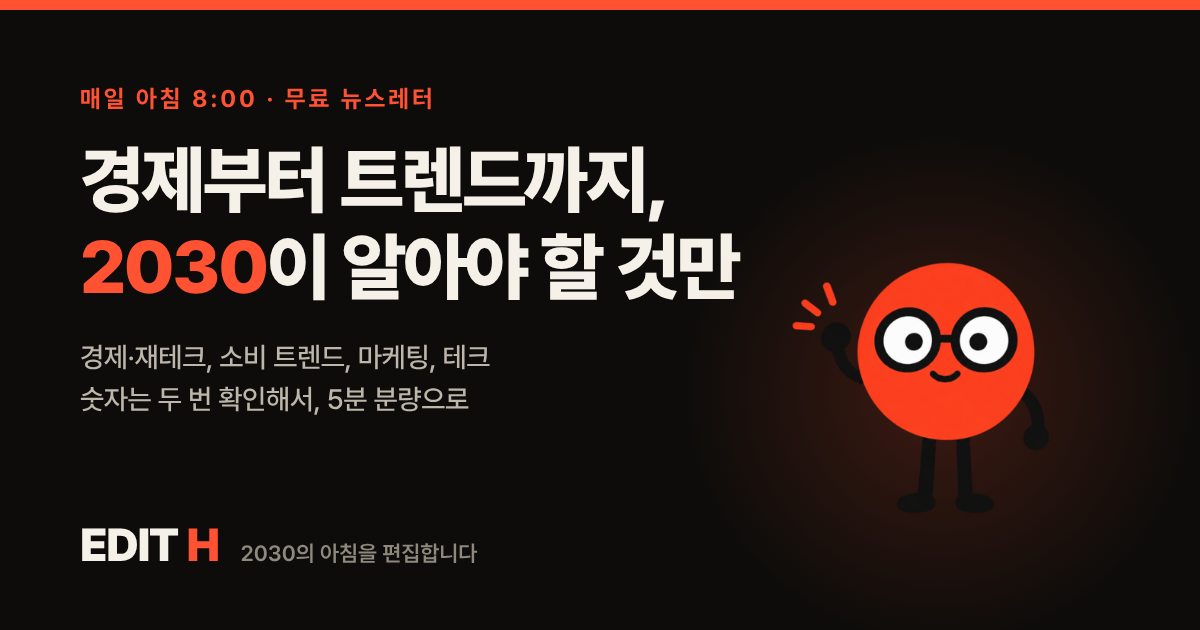
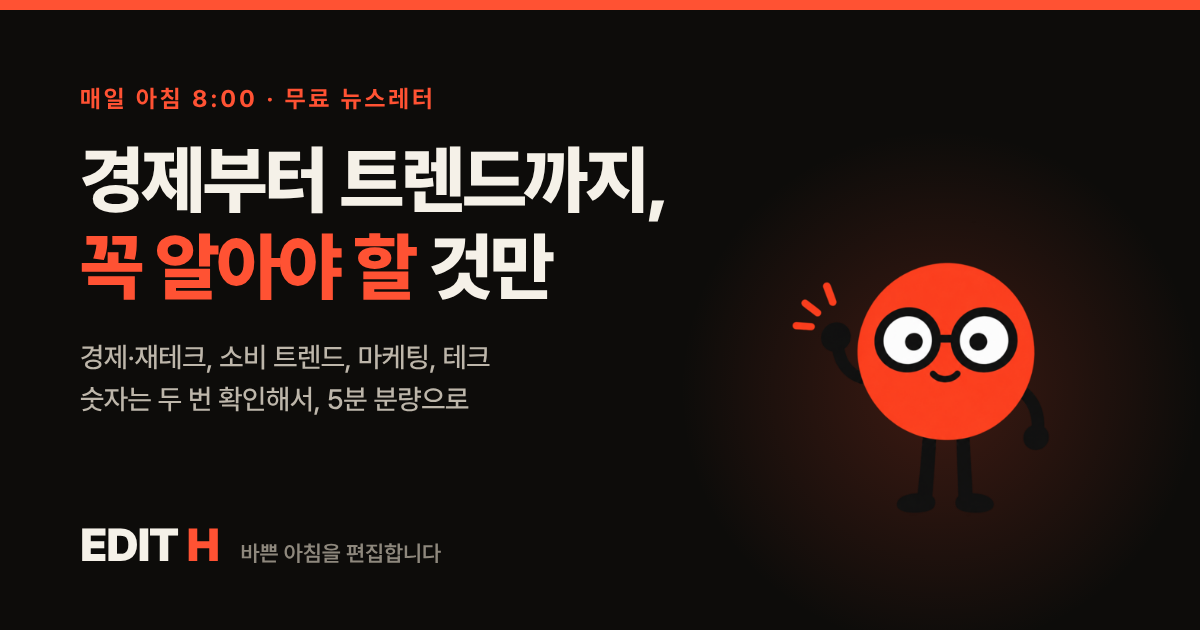
대표 한 줄 '바쁜 아침을 편집합니다'·'꼭 알아야 할'(11/23 호~)

Changed region(s): [[0.0617, 0.3619, 0.6167, 0.4825], [0.185, 0.8444, 0.4008, 0.9048]]

diff --git a/index.html b/index.html
@@ -3,11 +3,11 @@
 <head>
 <meta charset="UTF-8">
 <meta name="viewport" content="width=device-width, initial-scale=1.0">
-<title>EDIT H — 경제부터 트렌드까지, 2030이 알아야 할 것만</title>
-<meta name="description" content="경제부터 트렌드까지, 2030이 알아야 할 것만. 경제·재테크, 소비 트렌드, 마케팅·브랜드, 테크 소식을 골라 매일 아침 8시에 보내는 무료 뉴스레터 EDIT H. 지난 호를 모두 볼 수 있어요.">
+<title>EDIT H — 경제부터 트렌드까지, 꼭 알아야 할 것만</title>
+<meta name="description" content="경제부터 트렌드까지, 꼭 알아야 할 것만. 경제·재테크, 소비 트렌드, 마케팅·브랜드, 테크 소식을 골라 매일 아침 8시에 보내는 무료 뉴스레터 EDIT H. 지난 호를 모두 볼 수 있어요.">
 <meta name="theme-color" content="#FFFFFF">
-<meta property="og:title" content="EDIT H — 경제부터 트렌드까지, 2030이 알아야 할 것만">
-<meta property="og:description" content="2030의 아침을 편집합니다. 매일 아침 8시, 무료·광고 없음.">
+<meta property="og:title" content="EDIT H — 경제부터 트렌드까지, 꼭 알아야 할 것만">
+<meta property="og:description" content="바쁜 아침을 편집합니다. 매일 아침 8시, 무료·광고 없음.">
 <meta property="og:image" content="https://vetnam555-del.github.io/edit-h-archive/og_image.png">
 <meta property="og:image:width" content="1200">
 <meta property="og:image:height" content="630">
@@ -23,7 +23,7 @@
 <link rel="preconnect" href="https://cdn.jsdelivr.net" crossorigin>
 <link rel="stylesheet" href="https://cdn.jsdelivr.net/gh/orioncactus/pretendard@v1.3.9/dist/web/variable/pretendardvariable-dynamic-subset.min.css">
 <!-- 2026-11-01 운영자 "첫 화면에서 바로 구독 신청해서 구독 수를 높이게 구조 변경 + 디자인 전체 개선" → 같은 날 "좀 촌스러운 것 같은데"
-     → "내 돈·일·소비 같은 문구도 촌스럽다"(문구 체계: automation/reviews/2026-11-01-copy.md — 대표 한 줄 '2030의 아침을 편집합니다' — 11/01 운영자 '직장인보다 2030 마케팅·트렌드·경제 폭넓게').
+     → "내 돈·일·소비 같은 문구도 촌스럽다"(문구 체계: automation/reviews/2026-11-01-copy.md — 대표 한 줄 '2030의 아침을 편집합니다'(11/23~ '바쁜 아침을 편집합니다', '2030이' → '꼭') — 11/01 운영자 '직장인보다 2030 마케팅·트렌드·경제 폭넓게').
      2판: 레퍼런스(Morning Brew·1440·캐릿)처럼 단색 바탕·큰 글자·입력칸 하나로 줄이고, 장식(빛번짐·이모지·말풍선)을 빼고,
      실제로 보낸 최근 호를 휴대폰 모양 안에 그대로 보여 준다(무엇을 받는지 첫 화면에서). 색·칩은 뉴스레터 본문과 같은 말투.
      구독 칸은 subscribe.html 과 같은 Formspree 주소·칸. 지난 호 목록·최근 호 카드·호 수는 빌드가 manifest 로 다시 쓴다
@@ -222,7 +222,7 @@
   <div class="wrap">
     <div class="hero-copy">
       <p class="kicker"><span class="dot" aria-hidden="true"></span>매일 아침 8:00 · 무료 뉴스레터</p>
-      <h1 id="hero-title">경제부터 트렌드까지,<br><span class="hl">2030</span>이 알아야 할 것만</h1>
+      <h1 id="hero-title">경제부터 트렌드까지,<br><span class="hl">꼭 알아야 할</span> 것만</h1>
       <p class="lead">경제와 재테크, 소비 트렌드, 마케팅과 브랜드, 테크까지. 쏟아지는 소식 중 오늘 알아야 할 것만 골라 '그래서 나는?'까지 5분 분량으로 정리해요. 숫자는 서로 다른 두 곳에서 확인합니다.</p>
 
       <form class="sub-form" id="subscribeForm" action="https://formspree.io/f/xwvznwyw" method="POST">

diff --git a/subscribe.html b/subscribe.html
@@ -3,12 +3,12 @@
 <head>
 <meta charset="UTF-8">
 <meta name="viewport" content="width=device-width, initial-scale=1.0">
-<title>EDIT H 구독하기 — 경제부터 트렌드까지, 2030이 알아야 할 것만</title>
-<meta name="description" content="경제부터 트렌드까지, 2030이 알아야 할 것만. 매일 아침 8시에 보내는 무료 뉴스레터 EDIT H 구독 신청.">
+<title>EDIT H 구독하기 — 경제부터 트렌드까지, 꼭 알아야 할 것만</title>
+<meta name="description" content="경제부터 트렌드까지, 꼭 알아야 할 것만. 매일 아침 8시에 보내는 무료 뉴스레터 EDIT H 구독 신청.">
 <link rel="canonical" href="https://vetnam555-del.github.io/edit-h-archive/subscribe.html">
 <meta name="theme-color" content="#FFFFFF">
-<meta property="og:title" content="EDIT H — 경제부터 트렌드까지, 2030이 알아야 할 것만">
-<meta property="og:description" content="2030의 아침을 편집합니다. 매일 아침 8시, 무료·광고 없음.">
+<meta property="og:title" content="EDIT H — 경제부터 트렌드까지, 꼭 알아야 할 것만">
+<meta property="og:description" content="바쁜 아침을 편집합니다. 매일 아침 8시, 무료·광고 없음.">
 <meta property="og:type" content="website">
 <meta property="og:image" content="https://vetnam555-del.github.io/edit-h-archive/og_image.png">
 <meta property="og:image:width" content="1200">
@@ -217,7 +217,7 @@
   <div class="wrap">
     <div class="hero-copy">
       <p class="kicker"><span class="dot" aria-hidden="true"></span>매일 아침 8:00 · 무료 뉴스레터</p>
-      <h1 id="hero-title">경제부터 트렌드까지,<br><span class="hl">2030</span>이 알아야 할 것만</h1>
+      <h1 id="hero-title">경제부터 트렌드까지,<br><span class="hl">꼭 알아야 할</span> 것만</h1>
       <p class="lead">경제와 재테크, 소비 트렌드, 마케팅과 브랜드, 테크까지. 쏟아지는 소식 중 오늘 알아야 할 것만 골라 '그래서 나는?'까지 5분 분량으로 정리해요. 숫자는 서로 다른 두 곳에서 확인합니다.</p>
 
       <form id="subscribeForm" action="https://formspree.io/f/xwvznwyw" method="POST" class="sub-form">

diff --git a/share.html b/share.html
@@ -62,7 +62,7 @@
   <textarea class="url" id="text" rows="5" readonly></textarea>
 
   <a class="btn tertiary" id="mail" href="#">메일로 보내기</a>
-  <p class="note">매일 아침 8시, 경제부터 트렌드까지 2030이 알아야 할 소식을 무료로 보내 드려요. <a href="subscribe.html?ref=share">구독하기</a></p>
+  <p class="note">매일 아침 8시, 경제부터 트렌드까지 꼭 알아야 할 소식을 무료로 보내 드려요. <a href="subscribe.html?ref=share">구독하기</a></p>
 </main>
 <script>
 (function () {
@@ -71,11 +71,11 @@
   var valid = /^\d{4}-\d{2}-\d{2}$/.test(d);
   var issueUrl = valid ? new URL(d + '.html', base).href : base.href;
   var subUrl = new URL('subscribe.html?ref=share', base).href;
-  var title = 'EDIT H — 2030의 아침을 편집합니다';
+  var title = 'EDIT H — 바쁜 아침을 편집합니다';
   var textEl = document.getElementById('text'), msg = document.getElementById('msg');
 
   function body(t) {
-    return (t ? '[EDIT H] ' + t + '\n' : '') + issueUrl + '\n\n매일 아침 8시, 2030이 알아야 할 소식을 골라 보내 줘요. 무료 구독: ' + subUrl;
+    return (t ? '[EDIT H] ' + t + '\n' : '') + issueUrl + '\n\n매일 아침 8시, 꼭 알아야 할 소식을 골라 보내 줘요. 무료 구독: ' + subUrl;
   }
   function render(t) {
     textEl.value = body(t);

diff --git a/automation/selftest.py b/automation/selftest.py
@@ -1894,6 +1894,9 @@ def t_card_ratio():
         page_v2, _ = cards.build({**d, "date": cards.FOLLOW_LINE_V2_FROM}, "")
         expect("2030이 알아야 할 소식" in page_v2 and "돈·일·소비 뉴스" not in page_v2,
                "E11 표본 다음 날부터 팔로우 카드 소개 줄이 새 문구(2030 폭넓게)가 아니다")
+        page_v3, _ = cards.build({**d, "date": cards.FOLLOW_LINE_V3_FROM}, "")
+        expect("꼭 알아야 할 소식" in page_v3 and "2030이 알아야" not in page_v3,
+               "11/23 호부터 팔로우 카드 소개 줄이 '꼭 알아야 할'(11/22 운영자 '2030이 아니더라도 포괄적으로')이 아니다")
         expect(cards.follow_on({"date": "2026-10-31"}) and not cards.follow_on({"date": "2026-10-31", "poll": {"q": 1}}),
                "팔로우 카드 날짜·투표 날 예외가 틀린다")
         html_page = site.gallery_page(d_new, "https://x", ["01.png"], "caption")
@@ -2754,15 +2757,24 @@ def t_brand_v2():
     new = copy_mod.deepcopy(d)
     new["date"] = newsletter.BRAND_V2_FROM
     a, b = newsletter.render(old, site, 10), newsletter.render(new, site, 10)
-    expect("트렌드 한 입" in a and newsletter.BRAND_LINE not in a, "11/01 전 호의 바닥 문구가 바뀌었다(지난 호는 기록)")
-    expect(newsletter.BRAND_LINE in b and "트렌드 한 입" not in b, "11/01 호 메일에 옛 문구('트렌드 한 입')가 남았다")
+    expect("트렌드 한 입" in a and newsletter.BRAND_LINE_V2 not in a, "11/01 전 호의 바닥 문구가 바뀌었다(지난 호는 기록)")
+    expect(newsletter.BRAND_LINE_V2 in b and "트렌드 한 입" not in b and newsletter.BRAND_LINE not in b,
+           "11/01~11/22 호 메일 바닥이 '2030의 아침을 편집합니다'가 아니다(지난 호는 기록)")
+    # 11/23 호부터 '바쁜 아침을 편집합니다'·'꼭 알아야 할'(2026-11-22 운영자 '꼭 2030이 아니더라도 다 포괄적으로' → '바쁜 아침으로')
+    v3 = copy_mod.deepcopy(d)
+    v3["date"] = newsletter.BRAND_V3_FROM
+    c3 = newsletter.render(v3, site, 10)
+    expect(newsletter.BRAND_LINE in c3 and newsletter.BRAND_LINE_V2 not in c3 and "2030이 알아야" not in c3,
+           f"{newsletter.BRAND_V3_FROM} 호 메일에 '{newsletter.BRAND_LINE}'가 없거나 '2030' 문구가 남았다")
     expect("border-radius:0 0" in b and "border-radius:0 0" not in a, "11/01 호 프로필·노트 마크가 마스코트 얼굴(미소)이 아니다")
     for name in ("index.html", "subscribe.html"):
         page = (ROOT / name).read_text(encoding="utf-8")
-        expect("2030이 알아야 할 것만" in page and "직장인 버전" not in page and "돈·일·소비에" not in page
+        expect("꼭 알아야 할 것만" in page and "2030이 알아야" not in page and "2030의 아침을" not in page.split("-->", 1)[-1]
+               and "직장인 버전" not in page and "돈·일·소비에" not in page
                and "트렌드 한 입" not in page and "TREND BRIEF" not in page,
                f"{name} 에 옛 문구가 남았거나 새 대표 문구가 없다")
-    expect("트렌드 한 입" not in inspect.getsource(site_mod.write_feeds), "RSS 제목이 옛 문구다")
+    expect("트렌드 한 입" not in inspect.getsource(site_mod.write_feeds) and "2030" not in inspect.getsource(site_mod.write_feeds),
+           "RSS 제목·설명이 옛 문구다")
     # 11/03 호부터 프로필·노트 마크는 프로필과 같은 그림(2026-11-02 운영자 '메일 로고가 프로필 로고랑 다르다') — 11/02 호까지는 도형 그대로
     img = f'<img src="{site}/{newsletter.MARK_IMG}"'
     last_shape = copy_mod.deepcopy(d)

diff --git a/automation/edith/newsletter.py b/automation/edith/newsletter.py
@@ -315,7 +315,20 @@ AVATAR_MARK = ('<table role="presentation" aria-hidden="true" width="58" height=
 # 이날 호부터 ① 프로필·노트 마크를 마스코트 얼굴(안경 + 미소, assets/mascot/profile.png)로 ② 바닥·추천 메일 문구를 새 한 줄
 # '2030의 아침을 편집합니다'로(같은 날 운영자 '직장인보다 2030 마케팅·트렌드·경제 폭넓게'로 고침). 지난 호를 다시 빌드하면 예전 그대로 나온다(기록). 마크는 11/02 호까지 도형으로 그렸다(11/03 호부터 그림 — 아래 MARK_IMG_FROM).
 BRAND_V2_FROM = "2026-11-01"
-BRAND_LINE = "2030의 아침을 편집합니다"   # 11/01 운영자: 직장인보다 2030 마케팅·트렌드·경제 폭넓게
+BRAND_LINE_V2 = "2030의 아침을 편집합니다"   # 11/01 운영자: 직장인보다 2030 마케팅·트렌드·경제 폭넓게
+# 2026-11-22 운영자 '꼭 2030이 아니더라도 다 포괄적으로' → '바쁜 아침으로 가 줘'(계정 소개 릴스 3판 첫 화면 '바쁜 아침'과 같게).
+# 11/23 호부터 바닥·추천 메일 한 줄과 '2030이 알아야 할' → '꼭 알아야 할'. 그 전 호는 다시 빌드해도 예전 그대로(기록).
+BRAND_V3_FROM = "2026-11-23"
+BRAND_LINE = "바쁜 아침을 편집합니다"
+WHO_V2, WHO_V3 = "2030이 알아야 할", "꼭 알아야 할"
+
+
+def brand_line(d):
+    return BRAND_LINE if str(d.get("date", "")) >= BRAND_V3_FROM else BRAND_LINE_V2
+
+
+def who_line(d):
+    return WHO_V3 if str(d.get("date", "")) >= BRAND_V3_FROM else WHO_V2
 
 
 def _v2(d):
@@ -757,8 +770,8 @@ def _share_mailto(d, site):
     n = len(d["all_items"]) + (len(d["briefs"]) if d.get("format") == 2 else 0)
     when = send_time_ko(d.get('send_time_kst') or send_time_on(d['date'])).replace('오전', '아침')   # 그 호의 발송 시각(다시 빌드해도 그대로)
     if _v2(d):
-        subject = f"{BRAND_LINE} — EDIT H 추천해요"
-        pitch = f"매일 {when}, 경제부터 트렌드까지 2030이 알아야 할 소식 {n}가지를 골라 보내줘요."
+        subject = f"{brand_line(d)} — EDIT H 추천해요"
+        pitch = f"매일 {when}, 경제부터 트렌드까지 {who_line(d)} 소식 {n}가지를 골라 보내줘요."
     else:
         subject = "매일 아침 트렌드 한 입, EDIT H 추천해요"
         pitch = f"매일 {when}에 트렌드 {n}가지를 정리해서 보내줘요."
@@ -804,7 +817,7 @@ def _cta(d, site, campaign, n_cards):
 
 def _footer(site, campaign, d=None):
     ig = f"https://instagram.com/edit.h.kr?utm_source=edit_h&amp;utm_medium=email&amp;utm_campaign={campaign}&amp;utm_content=footer_instagram"
-    line = BRAND_LINE if d and _v2(d) else "매일 아침, 트렌드 한 입"
+    line = brand_line(d) if d and _v2(d) else "매일 아침, 트렌드 한 입"
     return (f'<tr><td class="px" style="padding:34px 36px 40px;">'
             + _div(f"font-size:12px;font-weight:400;line-height:1.9;color:{MUTED};",
                    f'EDIT H · {line} · 인스타그램 <a href="{ig}" style="color:{MUTED};">@edit.h.kr</a><br>'

diff --git a/automation/edith/site.py b/automation/edith/site.py
@@ -128,10 +128,10 @@ def write_feeds(manifest, site):
     FEED.write_text(
         '<?xml version="1.0" encoding="UTF-8"?>\n'
         '<rss version="2.0" xmlns:atom="http://www.w3.org/2005/Atom">\n<channel>\n'
-        "  <title>EDIT H — 2030의 아침을 편집합니다</title>\n"
+        "  <title>EDIT H — 바쁜 아침을 편집합니다</title>\n"
         f"  <link>{site}/</link>\n"
         f'  <atom:link href="{site}/feed.xml" rel="self" type="application/rss+xml"/>\n'
-        f"  <description>매일 {send_time_ko(load_config()['send_time_kst']).replace('오전', '아침')}, 경제부터 트렌드까지 2030이 알아야 할 소식을 확인된 숫자로</description>\n"
+        f"  <description>매일 {send_time_ko(load_config()['send_time_kst']).replace('오전', '아침')}, 경제부터 트렌드까지 꼭 알아야 할 소식을 확인된 숫자로</description>\n"
         "  <language>ko</language>\n"
         f"  <lastBuildDate>{now}</lastBuildDate>\n"
         + "\n".join(items) + "\n</channel>\n</rss>\n", encoding="utf-8")

diff --git a/automation/edith/cards.py b/automation/edith/cards.py
@@ -705,9 +705,12 @@ def follow_on(d):
 # 팔로우 카드 소개 줄 — 11/01 운영자 "꼭 직장인보다는 2030 마케팅, 트렌드, 경제 등 폭넓게"(automation/reviews/2026-11-01-copy.md).
 # E11(팔로우 카드) 표본 10/31~11/06 은 예전 줄 그대로 두고 그다음 날부터 바꾼다. 지난 호 카드는 다시 만들어도 예전 그대로(기록).
 FOLLOW_LINE_V2_FROM = "2026-11-07"
+FOLLOW_LINE_V3_FROM = "2026-11-23"   # 11/22 운영자 '꼭 2030이 아니더라도 다 포괄적으로' — '2030이' → '꼭'
 
 
 def follow_line(d, when, n):
+    if str(d["date"])[:10] >= FOLLOW_LINE_V3_FROM:
+        return f"매일 아침 {when}, 경제부터 트렌드까지 꼭 알아야 할 소식 {n}가지"
     if str(d["date"])[:10] >= FOLLOW_LINE_V2_FROM:
         return f"매일 아침 {when}, 경제부터 트렌드까지 2030이 알아야 할 소식 {n}가지"
     return f"매일 아침 {when}, 2030 직장인의 돈·일·소비 뉴스 {n}가지"

diff --git a/automation/build_site_assets.py b/automation/build_site_assets.py
@@ -45,10 +45,10 @@ h1{{font-size:74px;line-height:1.17;font-weight:850;letter-spacing:-2.5px;margin
 <div class="bar"></div>
 <div class="wrap">
   <div class="eyebrow">매일 아침 {when} · 무료 뉴스레터</div>
-  <h1>경제부터 트렌드까지,<br><span class="hl">2030</span>이 알아야 할 것만</h1>
+  <h1>경제부터 트렌드까지,<br><span class="hl">꼭 알아야 할</span> 것만</h1>
   <div class="sub">경제·재테크, 소비 트렌드, 마케팅, 테크<br>숫자는 두 번 확인해서, 5분 분량으로</div>
 </div>
-<div class="foot"><div class="logo">EDIT<span class="h"> H</span></div><div class="meta">2030의 아침을 편집합니다</div></div>
+<div class="foot"><div class="logo">EDIT<span class="h"> H</span></div><div class="meta">바쁜 아침을 편집합니다</div></div>
 <div class="glow"></div>
 <img class="mascot" src="{hello}" alt="">
 </body></html>"""

diff --git a/automation/pilots/ai_reel/episode.py b/automation/pilots/ai_reel/episode.py
@@ -199,7 +199,7 @@ def render_cards(ep, work):
     end = work / "end.png"
     when = send_time_ko(send_time_on(str(ep.get("date") or "9999")[:10])).replace("오전", "아침")   # 끝인사 기본 문구의 발송 시각("아침 8시")
     shot(END.format(fonts=fonts, face=FACE, line=e.get("line", f"내일 {when}에 또 만나요!"),
-                    sub=e.get("sub", "2030의 아침을 편집합니다 · 경제부터 트렌드까지<br>숫자·출처 전문은 프로필 링크 뉴스레터에서"),
+                    sub=e.get("sub", "바쁜 아침을 편집합니다 · 경제부터 트렌드까지<br>숫자·출처 전문은 프로필 링크 뉴스레터에서"),
                     note=e.get("note", "숫자는 기사 2곳 이상에서 확인했어요")), end, False)
     return paths, end
 

diff --git a/automation/comment_dm.py b/automation/comment_dm.py
@@ -125,7 +125,7 @@ def dm_text(s, day=None):
     hh, mm = s["send_time"].split(":")
     when = f"{int(hh)}시" + (f" {int(mm)}분" if int(mm) else "")
     lines = ["안녕하세요, EDIT H예요 📮",
-             f"2030이 알아야 할 경제·트렌드·마케팅·테크 소식을 골라 매일 아침 {when}에 메일로 보내드려요. 구독은 무료예요.",
+             f"꼭 알아야 할 경제·트렌드·마케팅·테크 소식을 골라 매일 아침 {when}에 메일로 보내드려요. 구독은 무료예요.",
              "", f"구독 신청 👉 {subscribe_url(s)}"]
     try:
         from edith.gift import active_gift

diff --git a/automation/CHANGELOG.md b/automation/CHANGELOG.md
@@ -3,6 +3,9 @@
 시스템이 날마다 무엇을 바꿨는지 한 줄씩 남긴다 — **바꾼 것 — 왜(근거) — 어떻게 판정·확인**. 최신이 위.
 매일 14:10 개선 루틴(`RUNBOOK_IMPROVE.md`)과 일요일 21:00 주간 루틴이 적는다. 편집 회고는 `learnings.md`, 조사·실험은 `references.md`.
 
+### 2026-11-22 (오후 — 운영자 '한 줄 소개는 바쁜 아침으로 가 줘')
+- **대표 한 줄 '2030의 아침을 편집합니다' → '바쁜 아침을 편집합니다', '2030이 알아야 할' → '꼭 알아야 할'**(11/23 호~, `newsletter.BRAND_V3_FROM`·`brand_line`·`who_line`, `cards.FOLLOW_LINE_V3_FROM`) — 근거: 운영자 '꼭 2030이 아니더라도 다 포괄적으로' + 계정 소개 릴스 3판 첫 화면 '바쁜 아침'과 맞춤. 메일 바닥·추천 메일 제목·소개 줄, 팔로우 카드 소개 줄은 날짜로 나눠 지난 호는 다시 빌드해도 그대로(기록). 지금 페이지(index·subscribe·share 제목·설명·첫 화면, RSS, og_image.png 공유 그림, 댓글 DM 글, 릴스 끝 화면 기본값)는 바로 바꿨다. 인스타 소개글은 OWNER_TODO(운영자 앱). 확인: selftest 문구 칸(11/01~11/22 옛 줄·11/23~ 새 줄·페이지에 '2030이 알아야' 없음·팔로우 카드 v3), 지난 호 다시 빌드 같음.
+
 ### 2026-11-22 (오후 — 운영자 '계정 소개 영상이 2030·8시 30분이다, 8시로·누구나로 바꿔 줘')
 - **고정 계정 소개 릴스 3판**(`automation/pilots/ai_reel/intro-2026-11-22/`, `instagram/2026-11-22/extra/7/`) — 첫 자막 '뉴스 볼 틈 없는 2030의 아침' → '뉴스 볼 틈 없는 바쁜 아침', 8시 30분 → 8시(자막 2곳·Knox 대사·끝 화면), 인스타 줄 '릴스는 월·수·금'. 같은 영상(시계 얼굴에 글자 없음)에 다시 입혔다. Knox 대사는 '매일'이 '내일'로 들려(받아쓰기 94%) '아침 8시, 날마다 이메일로 도착합니다!'로 바꿔 다시 녹음. 11/21 말 빠르기 규칙대로 대사 1~4 tempo 1.08~1.25, 첫 자막 두 장을 한 장으로(1.3초만 뜨던 칸). 캡션 둘째 줄은 구독 줄, AI 줄 없음. 확인: qa.py --extra 7 — 완성본 받아쓰기 6줄 모두 100%·-13.8 LUFS·검은 화면/번쩍임/소리 구멍 0. 남은 3건(content 숫자·hook·item)은 뉴스 릴스용 검사라 소개 영상엔 해당 없음(10/31 1판과 같음). 게시는 extra=7, 고정은 운영자가 앱에서(공식 API 에 고정 기능 없음).
 

diff --git a/automation/OWNER_TODO.md b/automation/OWNER_TODO.md
@@ -105,8 +105,8 @@
   - (10/31 더함) **네이버·빙은 새 호가 올라오면 자동으로 알린다**(IndexNow — 운영자 계정이 필요 없다, `indexnow.yml`).
     구글은 IndexNow 를 받지 않아 **구글 서치 콘솔 등록만은 운영자 몫**으로 남는다. 네이버 서치어드바이저 등록도 해 두면 수집 현황을 볼 수 있다.
 
-- [ ] (선택) **(1분) 인스타 소개글 첫 줄을 새 대표 문구로** — 2026-11-01 문구 다시 보기(`reviews/2026-11-01-copy.md`). 예:
-  `2030의 아침을 편집합니다 | 경제·트렌드·마케팅 | 매일 아침 8:30 무료 뉴스레터 ↓` (프로필 편집 → 소개). 사이트·메일은 이미 바꿨다(11/01 새벽, 2030 폭넓게).
+- [ ] **(1분) 인스타 소개글 첫 줄을 새 대표 문구로** — 2026-11-22 운영자 '바쁜 아침으로 가 줘'(사이트·공유 그림·메일 바닥은 11/23 호부터 바꿨다). 예:
+  `바쁜 아침을 편집합니다 | 경제·트렌드·마케팅·테크 | 매일 아침 8시 무료 뉴스레터 ↓` (프로필 편집 → 소개). 예전 안(11/01 '2030의 아침을 편집합니다 … 8:30')은 쓰지 않는다.
 - [ ] (선택) **(1분) 인스타 프로필 사진을 마스코트 얼굴로** — 2026-11-01 운영자 '변경해 줘'로 11/08 이후 계획을 앞당겼다. 파일 `assets/mascot/profile.png`(안전 영역판).
   인스타 앱 → 프로필 편집 → 사진 → 새 프로필 사진. 게시물로도 올릴지 묻는 창이 나오면 공유하지 않는다. 스레드는 프로필 편집 → 사진 → 'Instagram에서 가져오기'.
   **바꾼 날을 알려 주면** E11(팔로우 카드, 10/31~11/06) 판정 때 교체 전후를 나눠 본다. 근거·비교: `assets/mascot/README.md`.
